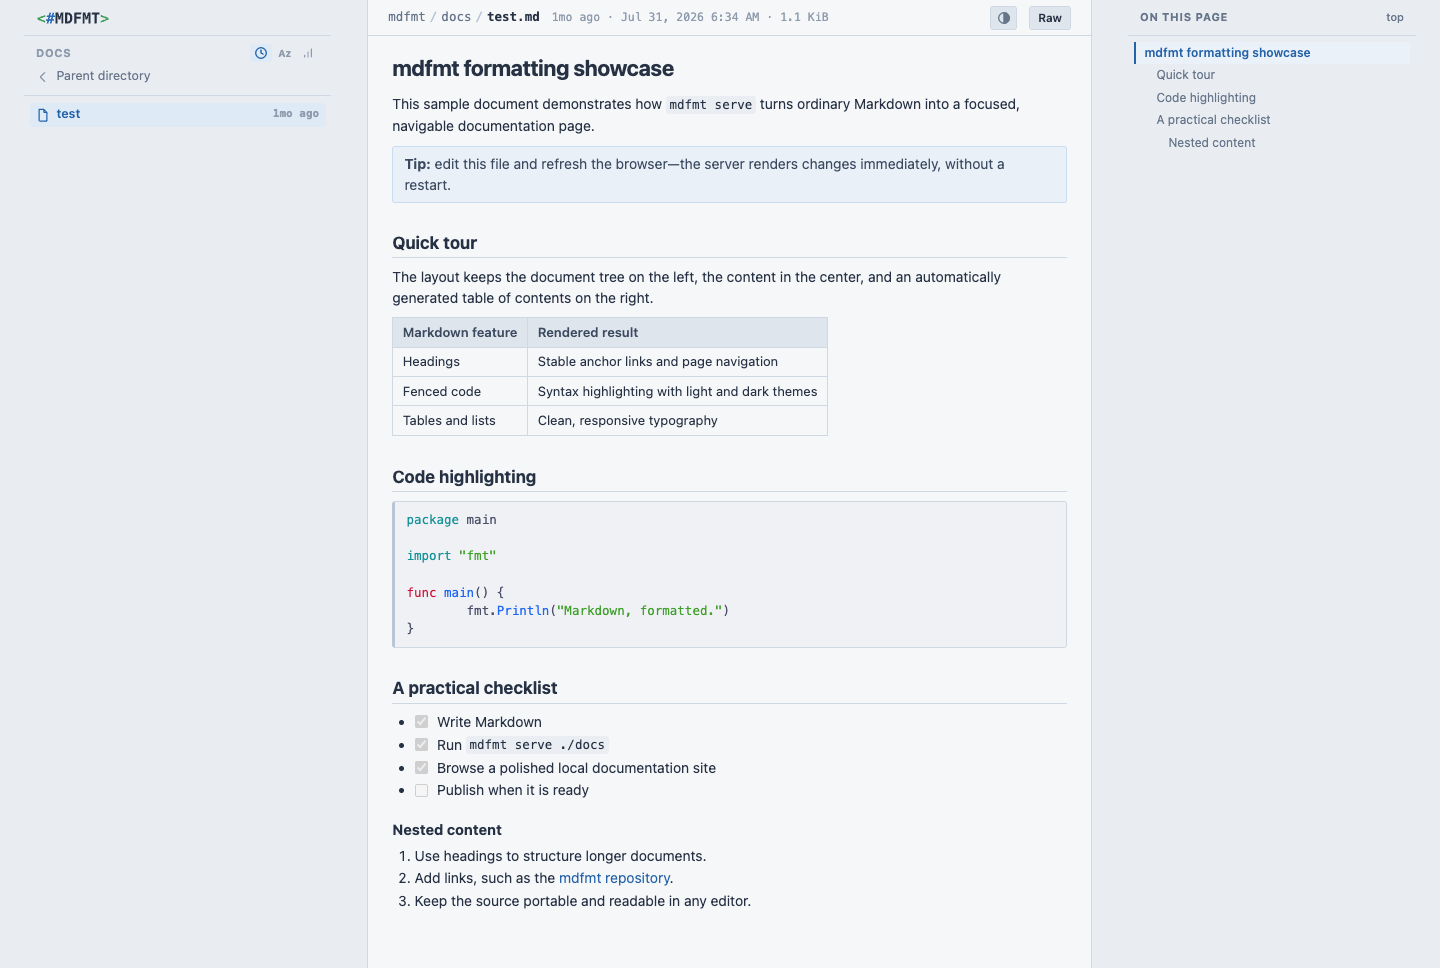
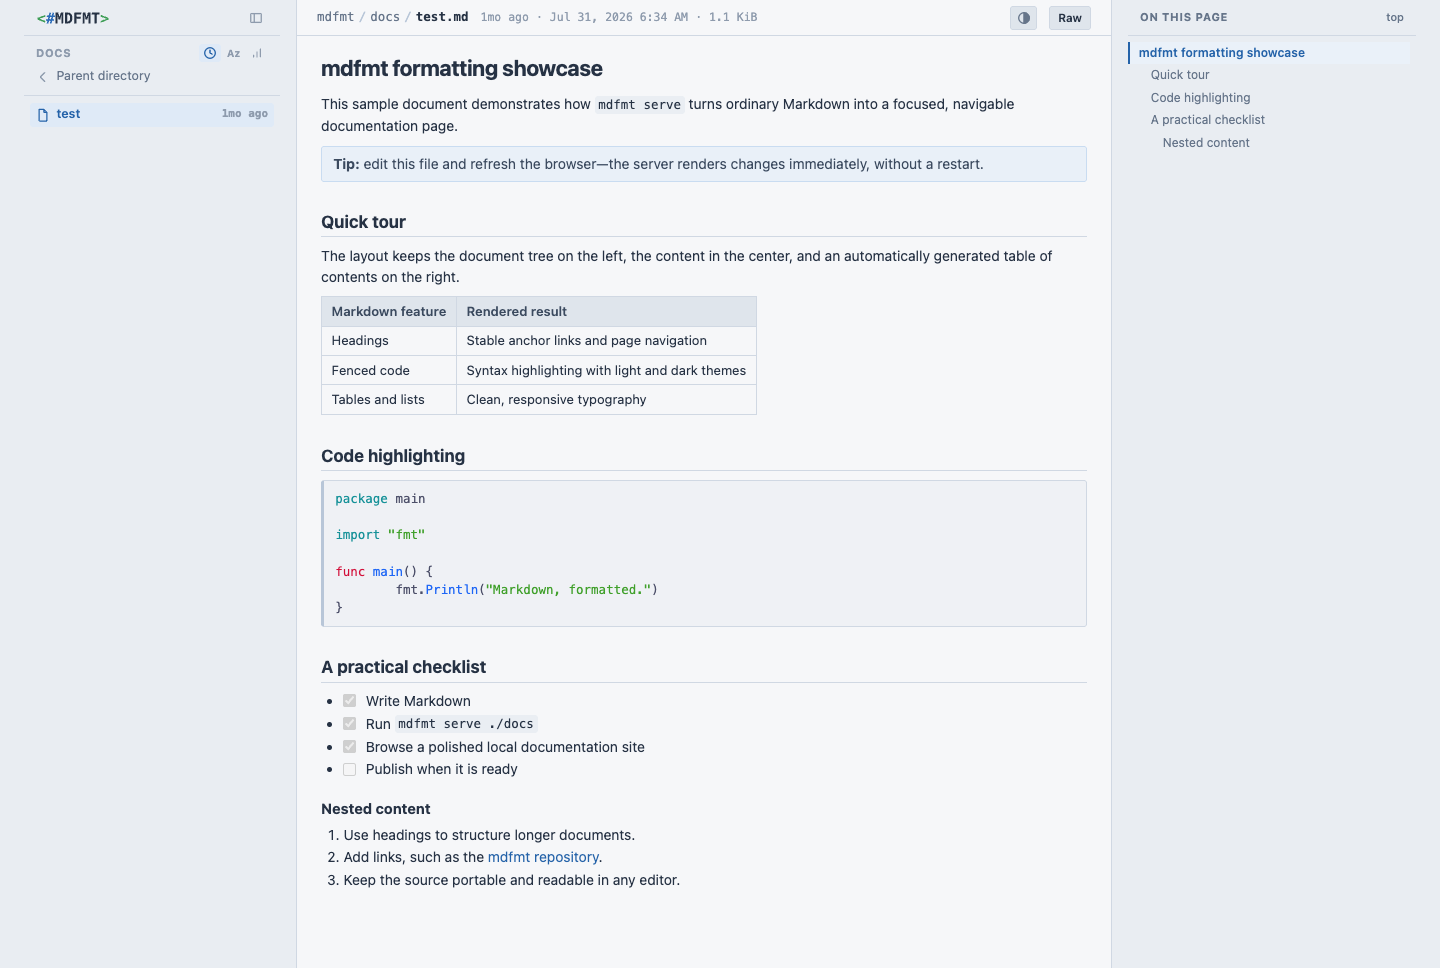
Add a collapse button for the left sidebar and tighten the layout
The button next to the logo shrinks the sidebar to a narrow rail; the
choice is remembered in the browser and applied before the body paints.
The sidebar column is narrower, the document column wider, and the gaps
on both sides of the main panel smaller.

diff --git a/assets/app.js b/assets/app.js
@@ -30,6 +30,62 @@
   // Runs before the body is parsed so the page never paints in the wrong theme.
   applyTheme(savedTheme());
 
+  // A JSON setting kept in localStorage with a path-wide cookie fallback,
+  // so it survives when one of the two is unavailable.
+  const persistedSetting = (storageKey, cookieKey) => ({
+    load: () => {
+      try {
+        const value = JSON.parse(localStorage.getItem(storageKey));
+        if (value) return value;
+      } catch {
+        // Try the cookie below.
+      }
+      try {
+        const prefix = `${cookieKey}=`;
+        const cookie = document.cookie
+          .split(";")
+          .map((part) => part.trim())
+          .find((part) => part.startsWith(prefix));
+        if (!cookie) return null;
+        const serialized = decodeURIComponent(cookie.slice(prefix.length));
+        const value = JSON.parse(serialized);
+        localStorage.setItem(storageKey, serialized);
+        return value;
+      } catch {
+        return null;
+      }
+    },
+    save: (value) => {
+      const serialized = JSON.stringify(value);
+      try {
+        localStorage.setItem(storageKey, serialized);
+      } catch {
+        // Fall through to the path-wide cookie.
+      }
+      try {
+        document.cookie =
+          `${cookieKey}=${encodeURIComponent(serialized)}; Path=/; ` +
+          "Max-Age=31536000; SameSite=Lax";
+      } catch {
+        // The setting still applies to this page when storage is disabled.
+      }
+    },
+  });
+
+  // The left sidebar collapses to a narrow rail; the state is applied here
+  // as well so the layout never paints expanded first.
+  const navSetting = persistedSetting("mdfmt.sidebar", "mdfmt_sidebar");
+  const applyNavCollapsed = (collapsed) => {
+    root.classList.toggle("nav-collapsed", collapsed);
+    const label = collapsed ? "Show the sidebar" : "Hide the sidebar";
+    for (const button of document.querySelectorAll("[data-nav-toggle]")) {
+      button.setAttribute("aria-expanded", String(!collapsed));
+      button.title = label;
+      button.setAttribute("aria-label", label);
+    }
+  };
+  applyNavCollapsed(navSetting.load() === "collapsed");
+
   // Reading positions live in one list of the most recently viewed documents.
   // The page announces its root page (the directory page in serve, index.html
   // in a build). A document is identified by its path relative to the root
@@ -118,6 +174,15 @@
         } catch {
           // The choice still applies to this page when storage is unavailable.
         }
+      });
+    }
+
+    applyNavCollapsed(root.classList.contains("nav-collapsed"));
+    for (const button of document.querySelectorAll("[data-nav-toggle]")) {
+      button.addEventListener("click", () => {
+        const collapsed = !root.classList.contains("nav-collapsed");
+        applyNavCollapsed(collapsed);
+        navSetting.save(collapsed ? "collapsed" : "expanded");
       });
     }
 
@@ -493,47 +558,6 @@
       addEventListener("pagehide", savePosition);
     }
 
-    // A JSON setting kept in localStorage with a path-wide cookie fallback,
-    // so it survives when one of the two is unavailable.
-    const persistedSetting = (storageKey, cookieKey) => ({
-      load: () => {
-        try {
-          const value = JSON.parse(localStorage.getItem(storageKey));
-          if (value) return value;
-        } catch {
-          // Try the cookie below.
-        }
-        try {
-          const prefix = `${cookieKey}=`;
-          const cookie = document.cookie
-            .split(";")
-            .map((part) => part.trim())
-            .find((part) => part.startsWith(prefix));
-          if (!cookie) return null;
-          const serialized = decodeURIComponent(cookie.slice(prefix.length));
-          const value = JSON.parse(serialized);
-          localStorage.setItem(storageKey, serialized);
-          return value;
-        } catch {
-          return null;
-        }
-      },
-      save: (value) => {
-        const serialized = JSON.stringify(value);
-        try {
-          localStorage.setItem(storageKey, serialized);
-        } catch {
-          // Fall through to the path-wide cookie.
-        }
-        try {
-          document.cookie =
-            `${cookieKey}=${encodeURIComponent(serialized)}; Path=/; ` +
-            "Max-Age=31536000; SameSite=Lax";
-        } catch {
-          // The setting still applies to this page when storage is disabled.
-        }
-      },
-    });
     const collator = new Intl.Collator(undefined, { numeric: true, sensitivity: "base" });
     const compare = (left, right, key) => {
       if (key === "name") return collator.compare(left.dataset.name, right.dataset.name);

diff --git a/templates/page.html b/templates/page.html
@@ -21,6 +21,7 @@
 {{define "icon-file"}}<svg class="icon" width="14" height="14" viewBox="0 0 16 16" aria-hidden="true"><path d="M4 1.5h5l3.5 3.5v9.5a.5.5 0 0 1-.5.5H4a.5.5 0 0 1-.5-.5v-12.5a.5.5 0 0 1 .5-.5z"/><path d="M9 1.5V5h3.5"/></svg>{{end}}
 {{define "icon-back"}}<svg class="icon" width="14" height="14" viewBox="0 0 16 16" aria-hidden="true"><path d="M10 3 5 8l5 5"/></svg>{{end}}
 {{define "icon-toc"}}<svg class="icon" width="14" height="14" viewBox="0 0 16 16" aria-hidden="true"><path d="M2.5 4h11M2.5 8h11M2.5 12h7"/></svg>{{end}}
+{{define "icon-sidebar"}}<svg class="icon" width="14" height="14" viewBox="0 0 16 16" aria-hidden="true"><rect x="2" y="3" width="12" height="10" rx="1"/><path d="M6 3v10"/></svg>{{end}}
 {{define "icon-recent"}}<svg class="icon" width="14" height="14" viewBox="0 0 16 16" aria-hidden="true"><circle cx="8" cy="8" r="6"/><path d="M8 4.5V8l2.5 1.5"/></svg>{{end}}
 {{define "icon-size"}}<svg class="icon" width="12" height="12" viewBox="0 0 16 16" aria-hidden="true"><path d="M3.5 13.5v-3M8 13.5v-7M12.5 13.5V2.5"/></svg>{{end}}
 {{define "sort-control"}}<span class="sort-control" role="group" aria-label="Sort files" data-sidebar-sort><button type="button" data-sort-key="modified" aria-pressed="false" title="Most recent first" aria-label="Most recent first">{{template "icon-recent"}}</button><button type="button" data-sort-key="name" aria-pressed="false" title="Alphabetical" aria-label="Alphabetical"><span class="glyph">Az</span></button><button type="button" data-sort-key="size" aria-pressed="false" title="Largest first" aria-label="Largest first">{{template "icon-size"}}</button></span>{{end}}
@@ -154,6 +155,7 @@
       <div class="pane-head">
         {{$root := ""}}{{range .Breadcrumbs}}{{if .URL}}{{if not $root}}{{$root = .URL}}{{end}}{{end}}{{end}}
         {{if $root}}<a class="brand" href="{{$root}}">{{template "logo"}}</a>{{else}}<span class="brand">{{template "logo"}}</span>{{end}}
+        <button class="nav-toggle" type="button" data-nav-toggle aria-expanded="true" aria-label="Hide the sidebar" title="Hide the sidebar">{{template "icon-sidebar"}}</button>
       </div>
       {{if .Projects}}
       <div class="sidebar-title">Projects</div>

diff --git a/assets/style.css b/assets/style.css
@@ -54,14 +54,21 @@ a:hover { text-decoration: underline; }
 
 .layout {
   display: grid;
-  grid-template-columns: minmax(12rem, 19.2rem) minmax(0, 56rem) minmax(11rem, 18rem);
-  gap: 2.25rem;
+  grid-template-columns: minmax(11rem, 16rem) minmax(0, 58rem) minmax(11rem, 18rem);
+  gap: 1rem;
   justify-content: center;
   min-height: 100vh;
   padding: 0 1.5rem;
 }
 
-.layout.no-nav { grid-template-columns: minmax(0, 56rem) minmax(11rem, 18rem); }
+.layout.no-nav { grid-template-columns: minmax(0, 58rem) minmax(11rem, 18rem); }
+
+/* The left sidebar collapses to a rail holding only the toggle. The class
+   is set before the body is parsed so the page never paints expanded first. */
+html.nav-collapsed .layout { grid-template-columns: 2.25rem minmax(0, 58rem) minmax(11rem, 18rem); }
+html.nav-collapsed .left-sidebar > :not(.pane-head),
+html.nav-collapsed .left-sidebar .brand { display: none; }
+html.nav-collapsed .left-sidebar .pane-head { justify-content: center; border-bottom: 0; padding: 0; }
 
 .left-sidebar,
 .right-sidebar {
@@ -99,6 +106,24 @@ a:hover { text-decoration: underline; }
 .logo-green { fill: var(--logo-green); }
 .logo-blue { fill: var(--logo-blue); }
 .logo-text { fill: currentColor; }
+
+.nav-toggle {
+  display: inline-flex;
+  align-items: center;
+  justify-content: center;
+  appearance: none;
+  width: 1.5rem;
+  height: 1.5rem;
+  border: 0;
+  border-radius: 3px;
+  background: none;
+  padding: 0;
+  color: var(--faint);
+  cursor: pointer;
+}
+
+.nav-toggle:hover,
+.nav-toggle:focus-visible { background: var(--hover); color: var(--accent); }
 
 .sidebar-title {
   display: flex;
@@ -329,7 +354,7 @@ main {
 .menu-clear { margin: .25rem .35rem 0; justify-content: center; color: var(--muted); }
 
 article {
-  max-width: 52rem;
+  max-width: 55rem;
   padding: 1.1rem 1.5rem 3rem;
 }
 
@@ -535,7 +560,7 @@ th { background: var(--panel); color: var(--text-secondary); font-weight: 600; }
   color: var(--muted);
 }
 
-.toc { padding: 0 .35rem; }
+.toc { padding: 0 .35rem 0 0; }
 
 .toc ul {
   margin: 0;

diff --git a/server_test.go b/server_test.go
@@ -897,6 +897,7 @@ func TestWebManifestAndReadingPositionMarkup(t *testing.T) {
 		t.Errorf("document with headings lacks the toolbar buttons:\n%s", guide)
 	}
 	for _, want := range []string{
+		`data-nav-toggle`,
 		`data-sidebar-sort`,
 		`<button type="button" data-sort-key="modified"`,
 		`<nav data-file-list>`,

diff --git a/README.md b/README.md
@@ -302,7 +302,9 @@ The left sidebar lists the current folder's documents with their age. A
 small control in the folder heading sorts them by most recent first, the
 default, alphabetically, or largest first; the choice is remembered in the
 browser, separately from the directory listing's own sort. Hovering an entry
-shows its filename, title, modification date, age, and size.
+shows its filename, title, modification date, age, and size. The button next
+to the logo collapses the sidebar to a narrow rail, leaving more room for the
+document; the choice is remembered in the browser too.
 
 The toolbar has two additional buttons next to the theme toggle:
 
